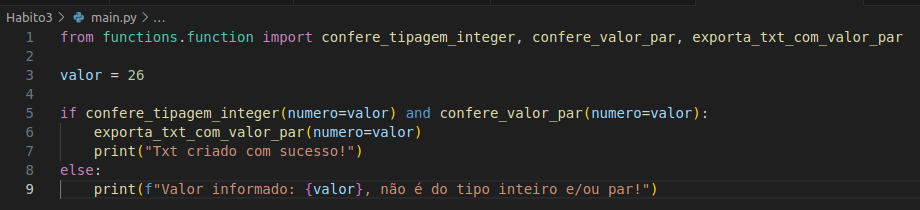
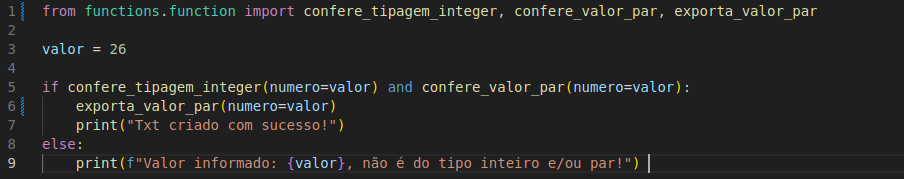
(Habito3): Corrige a chamada da função

diff --git a/Habito4/functions/function.py b/Habito4/functions/function.py
@@ -1,0 +1,55 @@
+def exporta_txt_com_valor_par(numero: float|int|str) -> str|None:
+    """Dado um valor informado, verifica se é par, retornando
+    uma mensagem e exportando o valor informado em um txt.
+
+    Args:
+        numero (float|int|str): Valor numérico que o usuário deve fornecer.
+
+    Returns:
+        str|None: A situação do valor informado se não for inteiro e par, e None caso o contrário.
+    """
+    if isinstance(numero, str):
+        return "Valor do tipo texto, não um valor numérico!"
+    
+    if isinstance(numero, float):
+        return "Valor não inteiro!"
+    
+    if numero % 2 == 0:
+        with open("situacao.txt", "w", encoding="utf-8") as texto:
+            texto.write("**************\n")
+            texto.write(f"O número informado: {numero} é um número par!")
+
+
+def confere_tipagem_integer(numero: int|float|str) -> bool:
+    """Verifica se o valor informado é do tipo inteiro.
+
+    Args:
+        numero (int|float|str): Valor numérico inteiro informado pelo usuário.
+
+    Returns:
+        bool: True se for do tipo integer, e False caso contrário.
+    """
+    return isinstance(numero, int)
+
+
+def confere_valor_par(numero: int) -> bool:
+    """Verifica se o valor 
+
+    Args:
+        numero (int): Valor numérico inteiro informado pelo usuário.
+
+    Returns:
+        bool: True se for par, False caso contrário. 
+    """
+    return numero % 2 == 0
+
+
+def exporta_valor_par(numero: int) -> None:
+    """Exporta o valor informado que deve ser par
+
+    Args:
+        numero (int): Um número par informado.
+    """
+    with open("situacao.txt", "w", encoding="utf-8") as texto:
+        texto.write("**************\n")
+        texto.write(f"O número informado: {numero} é um número par!")

diff --git a/Habito3/main.py b/Habito3/main.py
@@ -1,9 +1,9 @@
-from functions.function import confere_tipagem_integer, confere_valor_par, exporta_txt_com_valor_par
+from functions.function import confere_tipagem_integer, confere_valor_par, exporta_valor_par
 
 valor = 26
 
 if confere_tipagem_integer(numero=valor) and confere_valor_par(numero=valor):
-    exporta_txt_com_valor_par(numero=valor)
+    exporta_valor_par(numero=valor)
     print("Txt criado com sucesso!")
 else:
     print(f"Valor informado: {valor}, não é do tipo inteiro e/ou par!") 

diff --git a/Habito4/main.py b/Habito4/main.py
@@ -1,0 +1,1 @@
+from functions.function import confere_tipagem_integer, confere_valor_par, exporta_txt_com_valor_par

diff --git a/Habito4/functions/__init__.py b/Habito4/functions/__init__.py
@@ -1,0 +1,1 @@
+print("Você importou do módulo functions")
